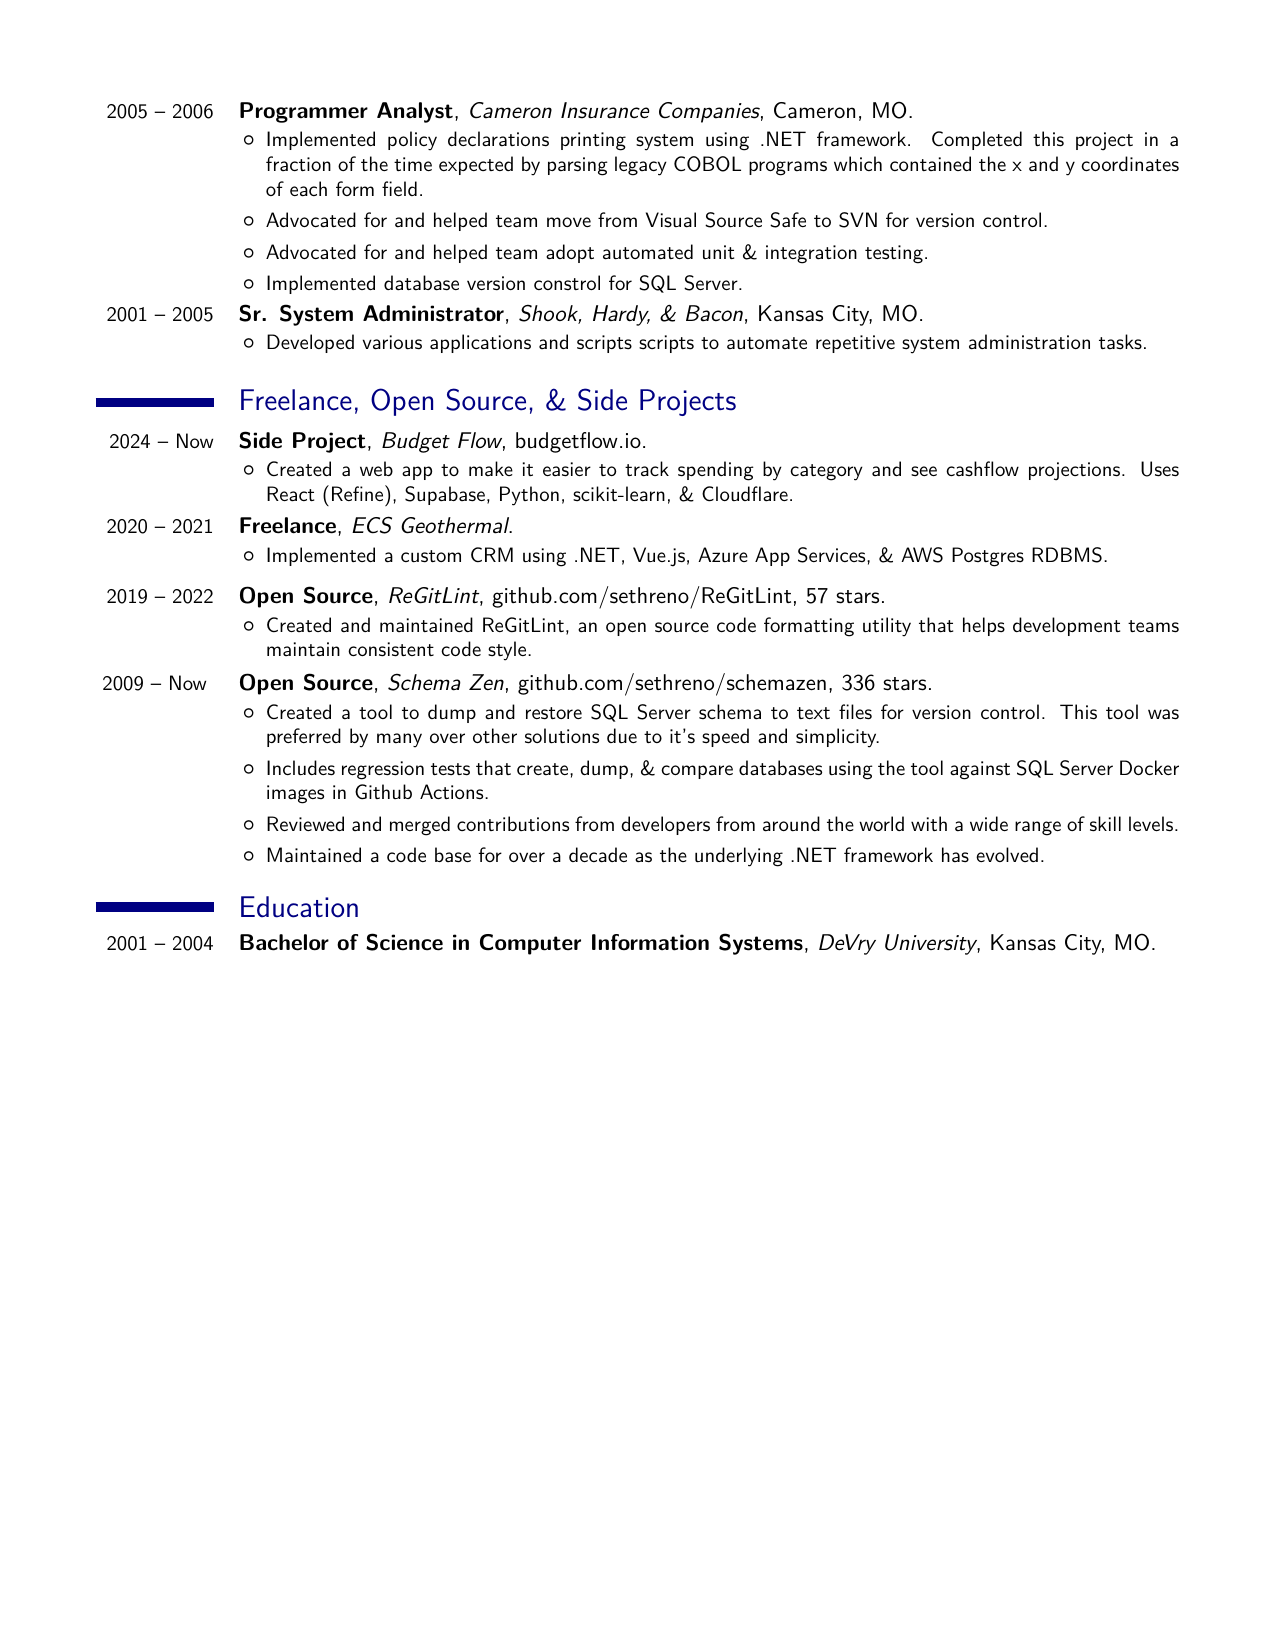
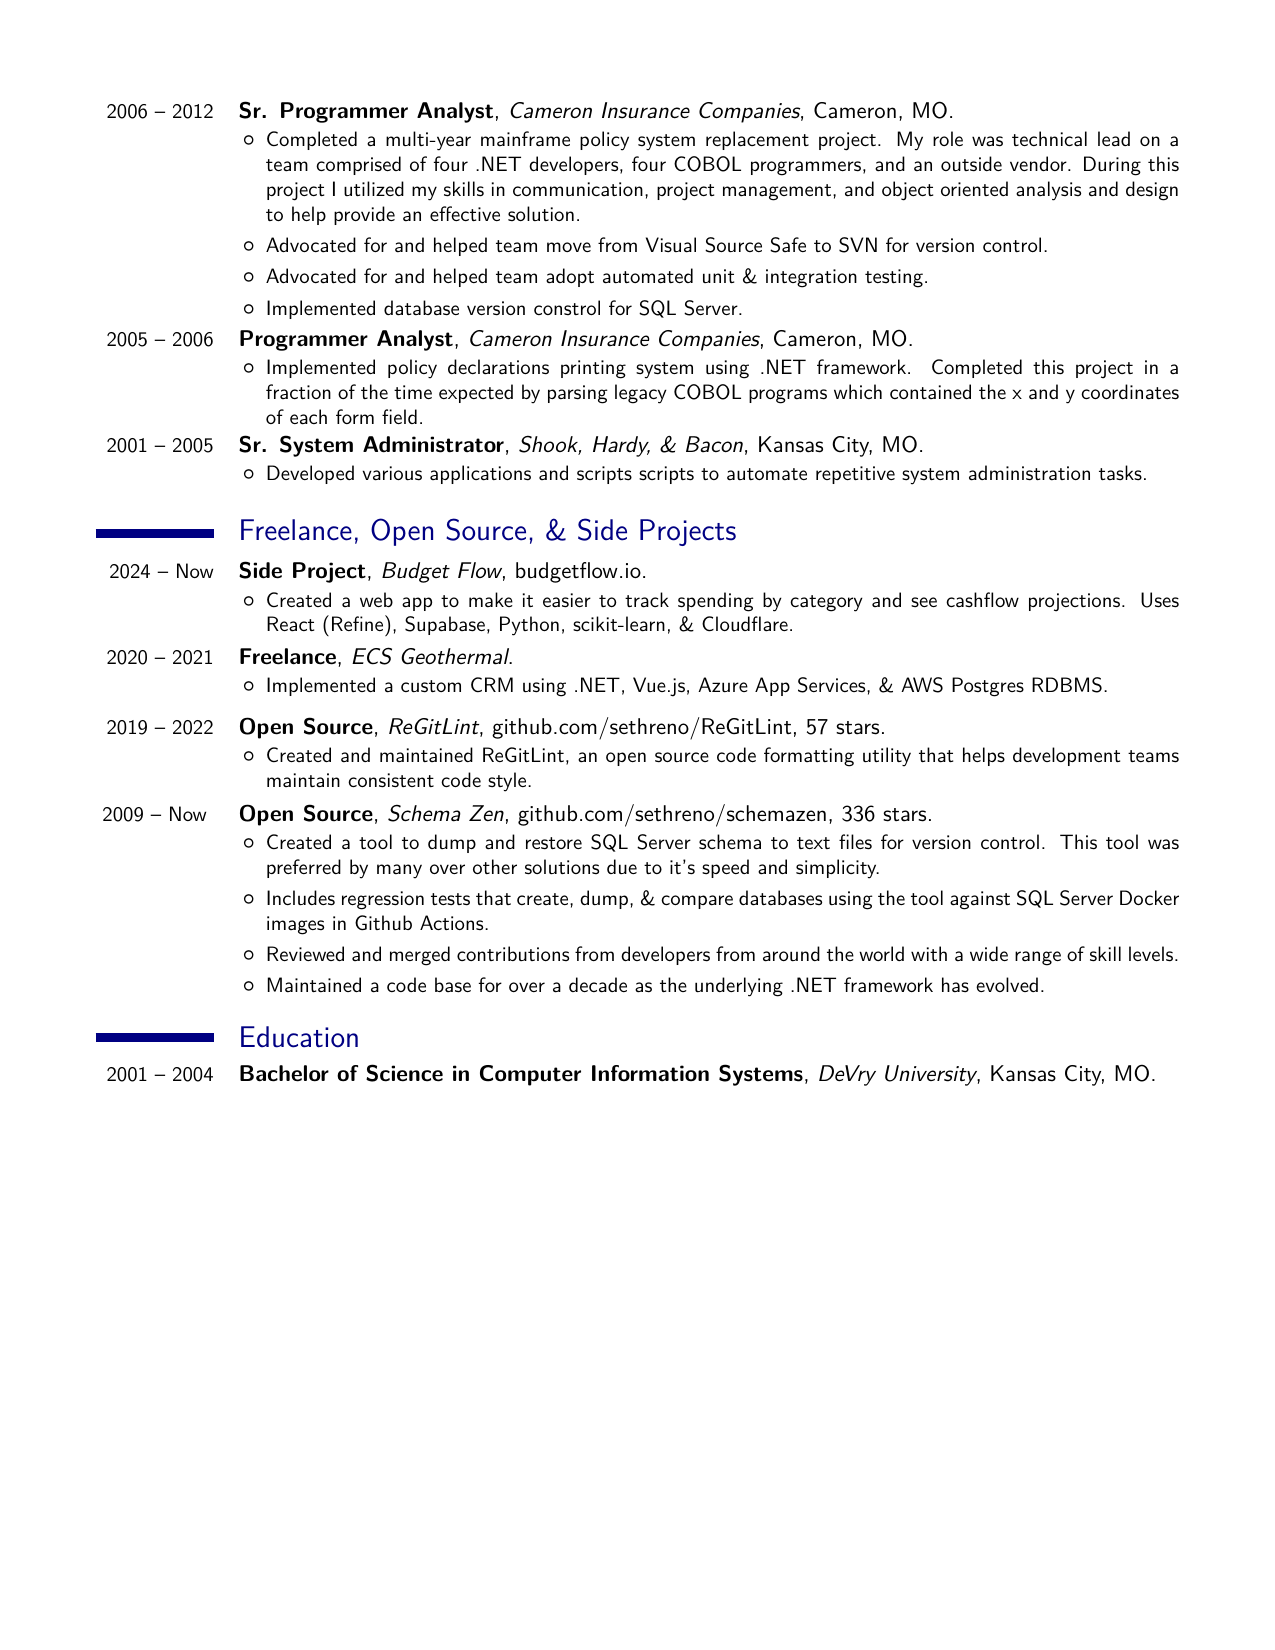
Tweak tools and experience

diff --git a/src/resume.tex b/src/resume.tex
@@ -57,16 +57,16 @@ fun.
 
 \section{Languages \& Tools} 
 	\cvline {Languages:}
-{C\#, Python, JavaScript, TypeScript, SQL, HTML, CSS, shell scripting}
+{C\#, Python, SQL, JavaScript, TypeScript, HTML, CSS, shell scripting}
 	\cvline {Frameworks:}
-{.NET Core, ASP.NET, React, Django}
+{.NET, ASP.NET, React, Django}
 	\cvline {Tools:}
 {Vim, VS Code, Visual Studio, Git, Docker,
 Playwright, Cypress,
 XUnit, Jest, Pytest,
 Github, Bitbucket, Jenkins,
-SQL Server, PostgreSQL, Redis, RabbitMQ, Elasticsearch,
-Kibana, New Relic, Launch Darkly,
+SQL Server, PostgreSQL, Redis, RabbitMQ,
+Elasticsearch, Kibana, New Relic,
 Jira, Trello,
 Azure, AWS, GCP
 }
@@ -76,9 +76,8 @@ Azure, AWS, GCP
 {2023 -- Now } {Sr. Staff Engineer}{Rosnet}{Parkville, MO}{}{
 		\begin{itemize}
 			\item
-				Advocated for and helped teams adopt modern software practices
-				including CI/CD, code reviews, automated testing, and
-				observability.
+				Helped teams improve velocity by assisting with automated
+				deployemnts, containerization, automated testing, and observability.
 			\item
 				Reviewed and improved designs for multiple projects saving the
 				company money.
@@ -98,8 +97,10 @@ Azure, AWS, GCP
 		\begin{itemize}
 			\item
 				Bootstrapped and lead a highly successful team that delivered
-				multiple large features using .NET, React, RabbitMQ, \&
-				Elasticsearch.
+				multiple features using .NET, React, RabbitMQ, \& Elasticsearch.
+			\item
+				Addressed one of the company's biggest scalability issues using
+				RabbitMQ.
 			\item
 				Implemented production replay system that's used for load
 				testing heaveywight legacy SQL Server workloads.
@@ -110,7 +111,7 @@ Azure, AWS, GCP
 {2012 -- 2020} {Sr. Software Engineer}{Rosnet}{Parkville, MO}{}{
 		\begin{itemize}
 			\item
-				Implemented Rosnet's POS integration platform. This is a
+				Implemented Rosnet's data ingestion platform. This is a
 				distributed system with clients running on thousands of
 				machines. It integrates 25 different POS systems with Rosnet and
 				provides near real-time data servicing \char`\~5,000 requests
@@ -140,6 +141,14 @@ Azure, AWS, GCP
 				I utilized my skills in communication, project
 				management, and object oriented analysis and design to
 				help provide an effective solution.
+			\item
+				Advocated for and helped team move from Visual Source Safe to
+				SVN for version control.
+			\item
+				Advocated for and helped team adopt automated unit \& integration
+				testing.
+			\item
+				Implemented database version constrol for SQL Server.
 		\end{itemize}
 }
 	\cventry
@@ -150,14 +159,6 @@ Azure, AWS, GCP
 				Completed this project in a fraction of the time expected by
 				parsing legacy COBOL programs which contained the x and y
 				coordinates of each form field.
-			\item
-				Advocated for and helped team move from Visual Source Safe to
-				SVN for version control.
-			\item
-				Advocated for and helped team adopt automated unit \& integration
-				testing.
-			\item
-				Implemented database version constrol for SQL Server.
 		\end{itemize}
 }
 	\cventry

diff --git a/README.md b/README.md
@@ -1,5 +1,5 @@
-![Seth Reno's Resume](output/resume.png)
-![Seth Reno's Resume](output/resume-page2.png)
+![Seth Reno's Resume Page 1](output/resume.png)
+![Seth Reno's Resume Page 2](output/resume-page2.png)
 
 ## Download
 Click [here](output/resume.pdf) to download the pdf version.
@@ -13,10 +13,4 @@ on the host.
 1. Launch Visual Studio Code
 2. Open the repo in the included Dev Container
    Ctrl+Shift+P --> Dev Containers: Open Folder in Container...
-3. Open a terminal in vscode. Ctrl+` and run the following commands:
-
-   ```bash
-    pushd src && xelatex resume.tex && mv resume.pdf ../output && popd
-    pdftoppm -png output/resume.pdf > output/resume.png
-    pdftoppm -png output/resume.pdf -f 2 > output/resume-page2.png
-    ```
+3. Open a terminal in vscode. Ctrl+ and run `./build.sh`
